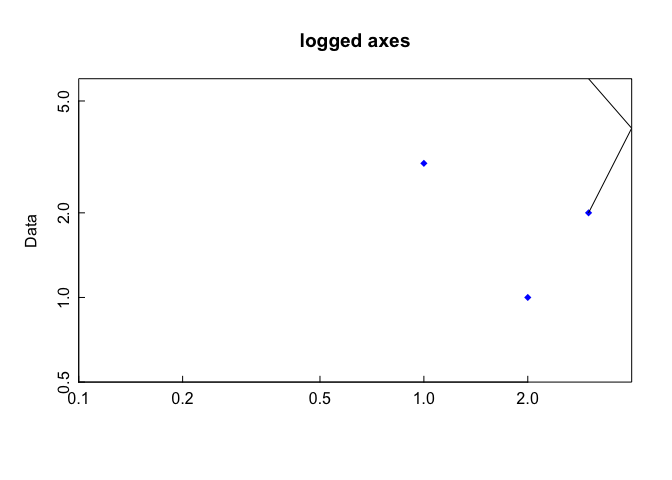
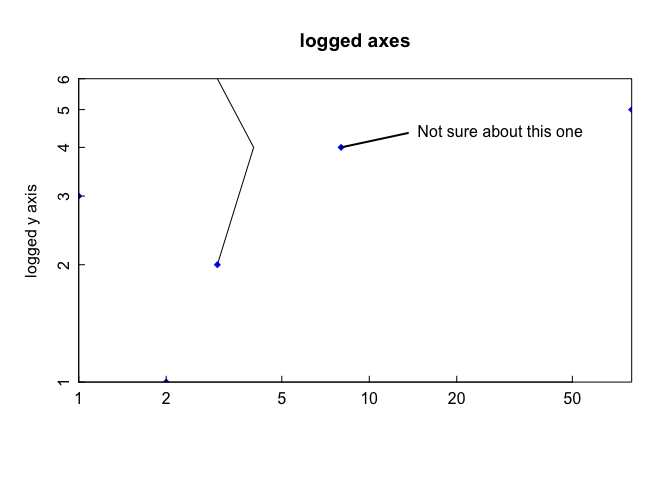
example updates

diff --git a/README.md b/README.md
@@ -25,9 +25,9 @@ Improved workflow examples
 library(gsplot)
 
 demoPlot <- gsplot() %>%
-  points(y=c(3,1,2), x=1:3, xlim=c(0.1,NA),ylim=c(0.5,NA),
+  points(y=c(3,1,2), x=1:3, xlim=c(0,NA),ylim=c(0,NA),
          col="blue", pch=18, legend.name="Points", xlab="Index") %>%
-  lines(c(3,4,3), c(2,4,6), legend.name="Lines", ylab="Data", log='xy') %>%
+  lines(c(3,4,3), c(2,4,6), legend.name="Lines", ylab="Data") %>%
   abline(b=1, a=0, legend.name="1:1") %>%
   legend("topleft",title="Awesome!") %>%
   grid() %>%
@@ -44,9 +44,9 @@ demoPlot
 library(gsplot)
 
 demoPlot <- gsplot() %>%
-  points(y=c(3,1,2), x=1:3, xlim=c(0.1,NA),ylim=c(0.5,NA),
-         col="blue", pch=18, legend.name="Points", xlab="Index") %>%
-  lines(c(3,4,3), c(2,4,6), legend.name="Lines", ylab="Data", xlab="logged axis", log='xy') %>%
+  points(y=c(3,1,2,4,5), x=c(1:3,8,80), col="blue", pch=18, legend.name="Points") %>%
+  lines(c(3,4,3), c(2,4,6), legend.name="Lines", ylab="logged y axis", xlab="logged x axis", log='xy') %>%
+  callouts(x=8, y=4, lwd=2, angle=45, labels="Not sure about this one") %>%
   title("logged axes")
 demoPlot
 ```
